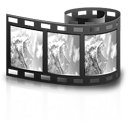
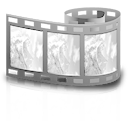
osx: watched events made last and grayed out

diff --git a/NyaWatch.Core/Domain/Events/Manager.cs b/NyaWatch.Core/Domain/Events/Manager.cs
@@ -19,7 +19,7 @@ namespace NyaWatch.Core.Domain.Events
 				return evt;
 			});
 
-			var sorted = from evt in query orderby evt.Created select evt;
+			var sorted = from evt in query orderby evt.Watched, evt.Created select evt;
 			return sorted.ToList();
 		}
 
@@ -29,19 +29,29 @@ namespace NyaWatch.Core.Domain.Events
 				Title = "Railgun 23"
 			});
 			Put (new NewEpisodesEvent () {
-				Title = "NGE 56"
+				Title = "NGE 56",
+				Watched = true
 			});
 			Put (new NewTorrentsEvent () {
 				Title = "Railgun 23"
 			});
+			Put (new NewTorrentsEvent () {
+				Title = "Railgun 22",
+				Watched = true
+			});
 			Put (new PremiereEvent () {
 				Title = "Railgun: The Movie"
+			});
+			Put (new PremiereEvent () {
+				Title = "Railgun: The OVA",
+				Watched = true
 			});
 			Put (new InfoEvent () {
 				Title = "You can do it"
 			});
 			Put (new InfoEvent () {
-				Title = "New pajamas"
+				Title = "New pajamas",
+				Watched = true
 			});
 		}
 
@@ -57,9 +67,10 @@ namespace NyaWatch.Core.Domain.Events
 		{
 			try
 			{
-				evt.Title = item.OptionalString("title");
-				evt.Message = item.OptionalString("message");
-				evt.Category = item.OptionalString("category");
+				evt.Title = item.OptionalString("title") ?? string.Empty;
+				evt.Message = item.OptionalString("message") ?? string.Empty;
+				evt.Category = item.OptionalString("category") ?? string.Empty;
+				evt.Watched = item.OptionalBool("watched") ?? false;
 
 				var animeID = item.OptionalString("anime-id");
 				if (!string.IsNullOrWhiteSpace(animeID)) {
@@ -85,6 +96,7 @@ namespace NyaWatch.Core.Domain.Events
 				item["anime-id"] = evt.AnimeID.ToString();
 				item["type"] = evt.GetType().FullName;
 				item["created"] = evt.Created.ToString("yyyy-MM-dd-hh:mm:ss");
+				item["watched"] = evt.Watched.ToString();
 				return item;
 			}
 			catch

diff --git a/NyaWatch.Core/Domain/Events/IEvent.cs b/NyaWatch.Core/Domain/Events/IEvent.cs
@@ -37,6 +37,12 @@ namespace NyaWatch.Core.Domain.Events
 		/// </summary>
 		/// <value>Event creation date.</value>
 		DateTime Created { get; set; }
+
+		/// <summary>
+		/// Gets or sets a value indicating whether this <see cref="NyaWatch.Core.Domain.Events.IEvent"/> is watched.
+		/// </summary>
+		/// <value><c>true</c> if watched; otherwise, <c>false</c>.</value>
+		bool Watched { get; set; }
 	}
 }
 

diff --git a/NyaWatch.Core/Domain/Events/BaseEvent.cs b/NyaWatch.Core/Domain/Events/BaseEvent.cs
@@ -13,6 +13,7 @@ namespace NyaWatch.Core.Domain.Events
 		public string Category { get; set; }
 		public Guid AnimeID { get; set; }
 		public DateTime Created { get; set; }
+		public bool Watched { get; set; }
 
 		public BaseEvent ()
 		{

diff --git a/NyaWatch/ViewModel/Event.cs b/NyaWatch/ViewModel/Event.cs
@@ -47,6 +47,11 @@ namespace NyaWatch.ViewModel
 			} catch (KeyNotFoundException) {
 				// nothing
 			}
+
+			if (evt.Watched) {
+				path += "-gray";
+			}
+
 			return NSBundle.MainBundle.PathForResource (path, "png");
 		}
 	}
